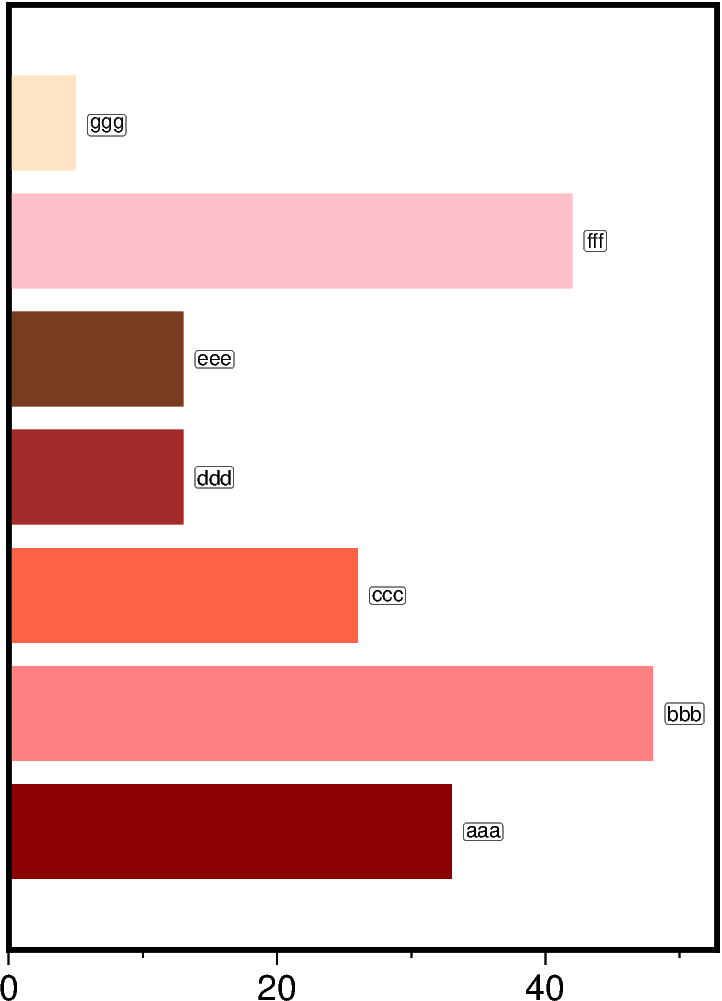
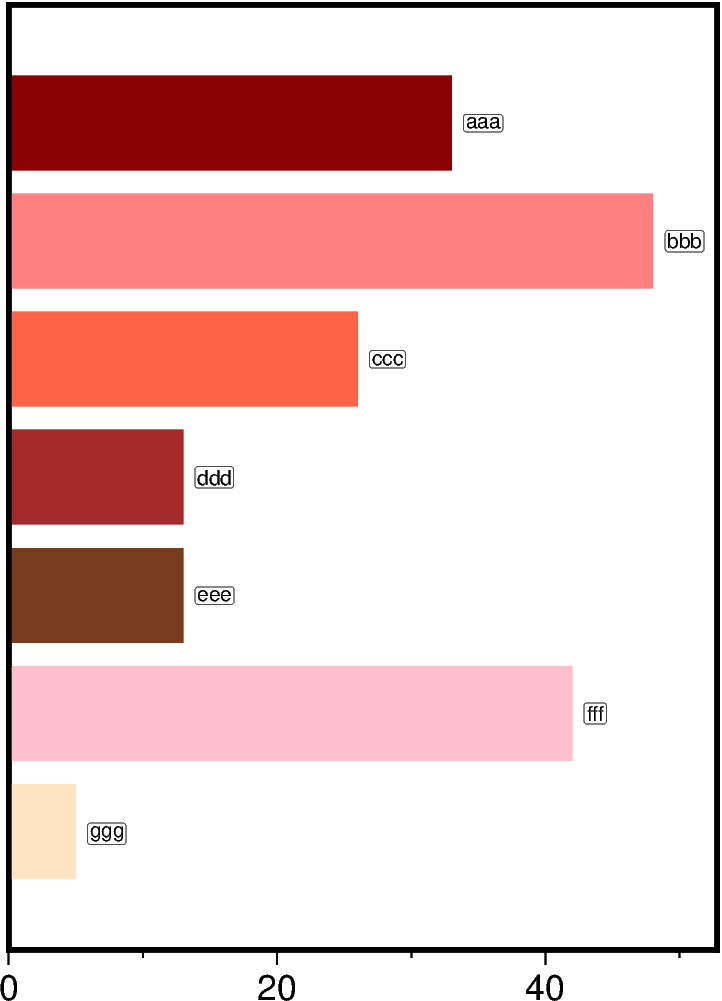
Flip y axis

diff --git a/014_general_stats/03_bar_chart/bar_chart_pygmt.py b/014_general_stats/03_bar_chart/bar_chart_pygmt.py
@@ -123,7 +123,7 @@ def bar_chart(
             y_offset = xy_offset
         case "horizontal":
             region = [0, np.max(bars) + np.max(bars) * 0.1, 0, len(bars) + 1]
-            projection = f"X6c/{len(bars) + 1}c"
+            projection = f"X6c/-{len(bars) + 1}c"
             frame = ["lStr", "xaf"]
             dict_bars = {"x": bars, "y": xy}
             style = "B"
